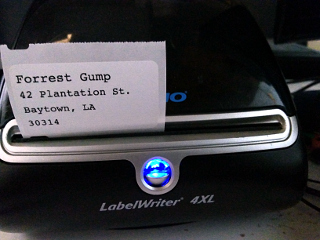
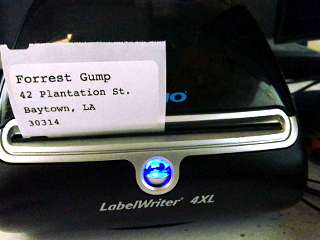
docadd

diff --git a/CHANGELOG.md b/CHANGELOG.md
@@ -4,14 +4,20 @@ All notable changes to this project will be documented in this file.
 The format is based on [Keep a Changelog](https://keepachangelog.com/en/1.0.0/)
 and this project adheres to [Semantic Versioning](https://semver.org/spec/v2.0.0.html).
 
-## 0.1.1
+## [Unreleased]
+### Fixed
+- Documentation Improved / Image added
+
+## [0.1.1]
 ### Changed
 - `evince` replaced with `xdg-open`
 ### Fixed
 - Documentation cleanup and PyPI compatibility
 
-## 0.1.0
+## [0.1.0]
 ### Added
 - Project Initialized
 
+[Unreleased]: https://git.sr.ht/~lucidone/mailprep/tree
+[0.1.1]: https://git.sr.ht/~lucidone/mailprep/tree/v0.1.1
 [0.1.0]: https://git.sr.ht/~lucidone/mailprep/tree/v0.1.0

diff --git a/TODO.md b/TODO.md
@@ -1,0 +1,2 @@
+Migrate to importlib.resources
+@click.version_option()
